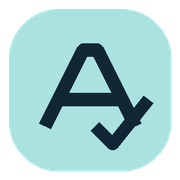
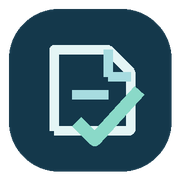
Заменить 3D на смысловую сцену документов и новый знак проверки

diff --git a/web/src/EvidenceCore.jsx b/web/src/EvidenceCore.jsx
@@ -2,122 +2,66 @@ import React,{useEffect,useRef} from 'react';
 import * as THREE from 'three';
 import {RoomEnvironment} from 'three/addons/environments/RoomEnvironment.js';
 
-// An authored physical dossier: source, rule, book and conclusion are separate layers.
-export default function EvidenceCore({progressRef,paused=false,lang='ru',framing='wide'}){
-  const host=useRef();
-  useEffect(()=>{
-    const element=host.current;
-    let renderer;
-    try{renderer=new THREE.WebGLRenderer({alpha:true,antialias:true,powerPreference:'low-power'});}catch{return;}
-    renderer.setPixelRatio(Math.min(Math.max(devicePixelRatio,2),3));
-    renderer.outputColorSpace=THREE.SRGBColorSpace;
-    renderer.toneMapping=THREE.ACESFilmicToneMapping;
-    renderer.toneMappingExposure=1.15;
-    renderer.setClearColor(0,0);element.appendChild(renderer.domElement);
-    const scene=new THREE.Scene();
-    const camera=new THREE.OrthographicCamera(-5,5,3.5,-3.5,.1,60);camera.position.set(0,0,18);
-    const pmrem=new THREE.PMREMGenerator(renderer),room=new RoomEnvironment();
-    const environment=pmrem.fromScene(room,.04);scene.environment=environment.texture;
-    room.dispose();pmrem.dispose();
-    scene.add(new THREE.HemisphereLight(0xc9e9ff,0x182638,2));
-    const key=new THREE.DirectionalLight(0xe1f4ff,3);key.position.set(-4,6,8);scene.add(key);
-    const rim=new THREE.DirectionalLight(0x7ccbdc,2);rim.position.set(5,-1,4);scene.add(rim);
-    const group=new THREE.Group();scene.add(group);
-    const geometries=[],materials=[],textures=[];
-    function mat(props){const value=new THREE.MeshStandardMaterial(props);materials.push(value);return value;}
-    function mesh(geometry,material,parent){geometries.push(geometry);const value=new THREE.Mesh(geometry,material);parent.add(value);return value;}
-    function outline(width,height,radius){
-      const s=new THREE.Shape(),x=-width/2,y=-height/2;
-      s.moveTo(x+radius,y);s.lineTo(x+width-radius,y);s.quadraticCurveTo(x+width,y,x+width,y+radius);
-      s.lineTo(x+width,y+height-radius);s.quadraticCurveTo(x+width,y+height,x+width-radius,y+height);
-      s.lineTo(x+radius,y+height);s.quadraticCurveTo(x,y+height,x,y+height-radius);
-      s.lineTo(x,y+radius);s.quadraticCurveTo(x,y,x+radius,y);return s;
-    }
-    function plate(width,height,depth,radius,material,parent){
-      const geo=new THREE.ExtrudeGeometry(outline(width,height,radius),{depth,bevelEnabled:true,bevelSegments:4,steps:1,bevelSize:.025,bevelThickness:.025,curveSegments:12});
-      geo.translate(0,0,-depth/2);return mesh(geo,material,parent);
-    }
-    const metal=mat({color:0x8ca4b8,metalness:1,roughness:.26});
-    const graphite=mat({color:0x1b2e3e,metalness:.75,roughness:.3});
-    const inset=mat({color:0x07121c,metalness:.5,roughness:.26});
-    const accent=mat({color:0x9ed8d9,emissive:0x2b6f79,emissiveIntensity:.35,metalness:.6,roughness:.25});
-    const labels=lang==='kk'?['ТӨЛЕМ','ВАЛЮТА БАҒАМЫ','ӨТКІЗБЕ','ДӘЛЕЛ']:lang==='en'?['PAYMENT','EXCHANGE RATE','JOURNAL','EVIDENCE']:['ПЛАТЁЖ','ВАЛЮТНЫЙ КУРС','ПРОВОДКА','ДОКАЗАТЕЛЬСТВО'];
-    const amounts=['500.00','490.60','250 000','4 700'];
-    const currencies=['USD','KZT / USD','KZT','KZT'];
-    const subs=lang==='kk'?['Бастапқы құжат','Ресми ереже','Кітаптағы сома','Дәлелденген айырма']:lang==='en'?['Source document','Declared conversion rule','Recorded book amount','Verified difference']:['Исходный документ','Правило конвертации','Сумма в учётной книге','Доказанное расхождение'];
-    function texture(index){
-      const canvas=document.createElement('canvas');canvas.width=1800;canvas.height=2560;
-      const c=canvas.getContext('2d');c.scale(2,2);c.fillStyle=index===3?'#17373f':'#11202d';c.fillRect(0,0,900,1280);
-      const glow=c.createLinearGradient(0,0,900,1280);glow.addColorStop(0,'#ffffff09');glow.addColorStop(1,'#00000018');c.fillStyle=glow;c.fillRect(0,0,900,1280);
-      c.strokeStyle='#67879b55';c.lineWidth=2;c.strokeRect(40,40,820,1200);
-      c.fillStyle='#9bb9cb';c.font='500 24px sans-serif';c.fillText('AUDITFORGE',78,103);
-      c.font='22px monospace';c.textAlign='right';c.fillText('0'+(index+1)+' / 04',819,103);c.textAlign='left';
-      c.strokeStyle='#7898ac66';c.beginPath();c.moveTo(78,143);c.lineTo(822,143);c.stroke();
-      c.fillStyle='#d0e7ef';c.font='500 '+(index===3?34:38)+'px sans-serif';c.fillText(labels[index],78,230);
-      c.fillStyle='#a6c3d1';c.font='25px sans-serif';c.fillText(subs[index],78,278);
-      c.fillStyle=index===3?'#c6f4e3':'#f0f7fc';c.font='500 108px sans-serif';c.fillText(amounts[index],74,455);
-      c.fillStyle='#a7cad9';c.font='30px monospace';c.fillText(currencies[index],78,513);
-      c.strokeStyle='#9fc1d34d';c.beginPath();c.moveTo(78,560);c.lineTo(822,560);c.stroke();
-      const rowLabels=index===0?['PAYMENT ID','REPORT PERIOD','SOURCE AMOUNT','CURRENCY']:index===1?['CURRENCY PAIR','DECLARED RATE','CONVERTED AMOUNT','PRECISION']:index===2?['ACCOUNT','BOOK AMOUNT','EXPECTED','DIFFERENCE']:['PAYMENT','EXCHANGE RATE','JOURNAL ENTRY','RESULT'];
-      const values=[['PAY-0042','2026 / 10','500.00','USD'],['USD → KZT','490.60','245 300 KZT','DECIMAL'],['PAYABLE','250 000 KZT','245 300 KZT','4 700 KZT'],['PAY-0042','FX-USD-10','ROW-0084','VERIFIED']][index];
-      for(let i=0;i<4;i++){
-        const y=635+i*103;c.fillStyle='#88a7b9';c.font='21px monospace';c.fillText(rowLabels[i],78,y);
-        c.fillStyle='#d1e3ed';c.font='26px monospace';c.textAlign='right';c.fillText(values[i],820,y);c.textAlign='left';
-        c.strokeStyle='#63839a33';c.beginPath();c.moveTo(78,y+36);c.lineTo(822,y+36);c.stroke();
-      }
-      c.fillStyle='#8dc0c5';for(let i=0;i<66;i++){const w=i%3===0?4:2;c.fillRect(78+i*6,1092,w,49+(i%4)*5);}
-      c.font='21px monospace';c.fillStyle='#90afc0';c.fillText('SYNTHETIC / DEMONSTRATION',78,1200);
-      if(index===3){c.strokeStyle='#b7ead9';c.lineWidth=5;c.beginPath();c.arc(765,1118,38,0,Math.PI*2);c.stroke();c.beginPath();c.moveTo(745,1119);c.lineTo(760,1133);c.lineTo(787,1103);c.stroke();}
-      const tex=new THREE.CanvasTexture(canvas);tex.colorSpace=THREE.SRGBColorSpace;tex.anisotropy=renderer.capabilities.getMaxAnisotropy();textures.push(tex);return tex;
-    }
-    const layers=[];
-    for(let i=0;i<4;i++){
-      const layer=new THREE.Group();group.add(layer);layers.push(layer);
-      plate(2.68,3.8,.11,.15,metal,layer);
-      const shell=plate(2.6,3.72,.085,.13,graphite,layer);shell.position.z=.065;
-      const gasket=plate(2.46,3.55,.018,.1,inset,layer);gasket.position.z=.122;
-      const face=mesh(new THREE.ShapeGeometry(outline(2.36,3.43,.08)),mat({map:texture(i),roughness:.37,metalness:.15}),layer);
-      // ShapeGeometry UVs use world coordinates; map the full authored face into 0..1.
-      const uv=face.geometry.getAttribute('uv'),pos=face.geometry.getAttribute('position');
-      for(let v=0;v<uv.count;v++)uv.setXY(v,(pos.getX(v)+1.18)/2.36,(pos.getY(v)+1.715)/3.43);uv.needsUpdate=true;
-      face.position.z=.18;
-      for(const x of [-1.23,1.23])for(const y of [-1.77,1.77]){
-        const screw=mesh(new THREE.CylinderGeometry(.035,.035,.018,20),metal,layer);screw.rotation.x=Math.PI/2;screw.position.set(x,y,.132);
-        const slot=mesh(new THREE.BoxGeometry(.037,.006,.003),inset,layer);slot.position.set(x,y,.144);slot.rotation.z=.65;
-      }
-      for(let j=0;j<15;j++){const vent=mesh(new THREE.BoxGeometry(.035,.14,.018),inset,layer);vent.position.set(-.73+j*.105,-1.882,.02);}
-      const rail=plate(.032,2.7,.022,.015,accent,layer);rail.position.set(-1.325,.05,.035);
-      for(let j=0;j<5;j++){const contact=mesh(new THREE.BoxGeometry(.1,.02,.09),metal,layer);contact.position.set(-.4+j*.2,-1.92,-.015);}
-    }
-    let sized=false,visible=true,frame=0,targetX=0,targetY=0,poseX=0,poseY=0,lastP=-1,lastTime=performance.now();
-    const reduced=matchMedia('(prefers-reduced-motion: reduce)').matches;
-    function move(e){const b=element.getBoundingClientRect();targetX=(e.clientX-b.left)/b.width-.5;targetY=(e.clientY-b.top)/b.height-.5;}
-    element.parentElement.addEventListener('pointermove',move);
-    const resize=new ResizeObserver(()=>{const b=element.getBoundingClientRect();sized=b.width>0&&b.height>0;if(!sized)return;renderer.setSize(b.width,b.height);const halfW=framing==='portrait'?3.3:4.95,halfH=halfW*b.height/Math.max(1,b.width);camera.left=-halfW;camera.right=halfW;camera.top=halfH;camera.bottom=-halfH;camera.updateProjectionMatrix();lastP=-1;});resize.observe(element);
-    const visibility=new IntersectionObserver(([entry])=>{visible=entry.isIntersecting;});visibility.observe(element);
-    const bounds=new THREE.Box3(),size=new THREE.Vector3(),center=new THREE.Vector3();
-    function render(){
-      frame=requestAnimationFrame(render);if(!visible||!sized)return;
-      const p=Math.max(0,Math.min(1,progressRef.current));
-      const now=performance.now(),dt=Math.min((now-lastTime)/1000,.05);lastTime=now;
-      poseX=THREE.MathUtils.damp(poseX,reduced||paused?0:targetX,8,dt);
-      poseY=THREE.MathUtils.damp(poseY,reduced||paused?0:targetY,8,dt);
-      group.rotation.set(.08-poseY*.06,-.28+poseX*.09,-.055);
+// Financial source documents, never device mockups. Scroll reveals the evidence chain.
+export default function EvidenceCore({progressRef,paused=false,lang='ru',hero=false}){
+ const host=useRef();
+ useEffect(()=>{
+  const element=host.current;let renderer;
+  try{renderer=new THREE.WebGLRenderer({alpha:true,antialias:true,powerPreference:'low-power'});}catch{return;}
+  renderer.setPixelRatio(Math.min(devicePixelRatio||1,2));renderer.outputColorSpace=THREE.SRGBColorSpace;
+  renderer.toneMapping=THREE.ACESFilmicToneMapping;renderer.toneMappingExposure=1.15;renderer.setClearColor(0,0);element.appendChild(renderer.domElement);
+  const scene=new THREE.Scene(),camera=new THREE.OrthographicCamera(-5,5,4,-4,.1,60);camera.position.z=18;
+  const pmrem=new THREE.PMREMGenerator(renderer),room=new RoomEnvironment(),environment=pmrem.fromScene(room,.04);scene.environment=environment.texture;room.dispose();pmrem.dispose();
+  scene.add(new THREE.HemisphereLight(0xe5f3ff,0x476078,2.6));const light=new THREE.DirectionalLight(0xffffff,3);light.position.set(-3,5,8);scene.add(light);
+  const group=new THREE.Group();scene.add(group);const geometry=[],materials=[],textures=[],sheets=[];
+  const titles={ru:['Платёж','Валютный курс','Проводка','Доказательство'],en:['Payment','Exchange rate','Journal entry','Evidence'],kk:['Төлем','Валюта бағамы','Өткізбе','Дәлел']}[lang]||['Payment','Exchange rate','Journal entry','Evidence'];
+  const subtitles={ru:['Исходный документ','Правило на дату платежа','Запись в учётной книге','Проверенное расхождение'],en:['Source document','Rule on payment date','Recorded book amount','Verified difference'],kk:['Бастапқы құжат','Төлем күніндегі ереже','Есеп кітабындағы жазба','Расталған айырма']}[lang]||[];
+  const values=['500.00','490.60','250 000','4 700'],units=['USD','KZT / USD','KZT','KZT'];
+  function material(options){const m=new THREE.MeshStandardMaterial(options);materials.push(m);return m;}
+  function mesh(g,m,parent){geometry.push(g);const o=new THREE.Mesh(g,m);parent.add(o);return o;}
+  function shape(w,h,r){const s=new THREE.Shape(),x=-w/2,y=-h/2;s.moveTo(x+r,y);s.lineTo(x+w-r,y);s.quadraticCurveTo(x+w,y,x+w,y+r);s.lineTo(x+w,y+h-r);s.quadraticCurveTo(x+w,y+h,x+w-r,y+h);s.lineTo(x+r,y+h);s.quadraticCurveTo(x,y+h,x,y+h-r);s.lineTo(x,y+r);s.quadraticCurveTo(x,y,x+r,y);return s;}
+  function faceTexture(index){
+   const canvas=document.createElement('canvas');canvas.width=1536;canvas.height=2048;const c=canvas.getContext('2d');c.scale(2,2);
+   c.fillStyle=index===3?'#e2f4ef':'#fafcfd';c.fillRect(0,0,768,1024);
+   c.fillStyle='#60788b';c.font='500 18px sans-serif';c.fillText('AUDITFORGE',58,76);c.textAlign='right';c.fillText(String(index+1).padStart(2,'0'),710,76);c.textAlign='left';
+   c.strokeStyle='#ccd8e0';c.lineWidth=1;c.beginPath();c.moveTo(58,108);c.lineTo(710,108);c.stroke();
+   c.fillStyle='#162e40';c.font='600 42px sans-serif';c.fillText(titles[index],58,196);c.font='22px sans-serif';c.fillStyle='#657f90';c.fillText(subtitles[index]||'',58,239);
+   c.fillStyle='#163548';c.font='500 89px sans-serif';c.fillText(values[index],54,395);c.font='24px sans-serif';c.fillStyle='#637d8b';c.fillText(units[index],58,438);
+   const labels=index===0?['PAY-0042','31 OCT 2026','USD → KZT']:index===1?['FX-USD-10','500 × 490.60','245 300 KZT']:index===2?['ROW-0084','245 300 KZT','250 000 KZT']:['PAY-0042 + FX-USD-10','ROW-0084','250 000 − 245 300'];
+   labels.forEach((value,i)=>{const y=555+i*99;c.fillStyle='#edf2f5';c.fillRect(56,y-28,656,62);c.fillStyle='#476578';c.font='24px sans-serif';c.fillText(value,76,y+12);});
+   if(index===3){c.strokeStyle='#397b6f';c.lineWidth=7;c.beginPath();c.arc(644,897,36,0,Math.PI*2);c.stroke();c.beginPath();c.moveTo(626,896);c.lineTo(641,911);c.lineTo(664,882);c.stroke();}
+   c.fillStyle='#7e949f';c.font='18px sans-serif';c.fillText('SYNTHETIC · DEMONSTRATION',58,948);
+   const t=new THREE.CanvasTexture(canvas);t.colorSpace=THREE.SRGBColorSpace;t.anisotropy=Math.min(8,renderer.capabilities.getMaxAnisotropy());textures.push(t);return t;
+  }
+  for(let i=0;i<(hero?1:4);i++){
+   const sheet=new THREE.Group();group.add(sheet);sheets.push(sheet);const outline=shape(2.8,3.75,.075);
+   const thickness=new THREE.ExtrudeGeometry(outline,{depth:.025,bevelEnabled:true,bevelSegments:2,bevelSize:.008,bevelThickness:.008,curveSegments:16});thickness.translate(0,0,-.025);
+   mesh(thickness,material({color:0xe5edf2,roughness:.8}),sheet);
+   const front=mesh(new THREE.ShapeGeometry(outline),(()=>{const m=new THREE.MeshBasicMaterial({map:faceTexture(hero?0:i)});materials.push(m);return m;})(),sheet);front.position.z=.012;
+   const uv=front.geometry.getAttribute('uv'),pos=front.geometry.getAttribute('position');for(let n=0;n<uv.count;n++)uv.setXY(n,(pos.getX(n)+1.4)/2.8,(pos.getY(n)+1.875)/3.75);uv.needsUpdate=true;
+  }
+  // A thin optical plane highlights a document row; it is a visual explanation of inspection.
+  let inspection;
+  if(hero){inspection=new THREE.Group();group.add(inspection);const glass=new THREE.MeshPhysicalMaterial({color:0xb9e4e9,transparent:true,opacity:.25,roughness:.12,metalness:0,side:THREE.DoubleSide});materials.push(glass);
+   mesh(new THREE.CircleGeometry(.93,96),glass,inspection);
+   const rimMaterial=material({color:0x527b8e,metalness:.75,roughness:.2});
+   mesh(new THREE.TorusGeometry(.96,.045,20,96),rimMaterial,inspection);
+   const outer=mesh(new THREE.TorusGeometry(1.045,.012,12,96),rimMaterial,inspection);outer.position.z=-.02;
 
-      layers.forEach((layer,i)=>{
-        const order=i-1.5;
-        // Keep the source in front throughout. Depth never crosses zero or reverses order.
-        layer.position.set(order*(.14+p*1.64),-order*p*.15,-order*(.22+p*.22));
-        layer.rotation.y=-.035+order*p*.035;
-        layer.rotation.z=order*p*-.025;
-        layer.scale.setScalar(1);
-      });
-      group.updateMatrixWorld(true);bounds.setFromObject(group);bounds.getSize(size);bounds.getCenter(center);const availableWidth=camera.right-camera.left,availableHeight=camera.top-camera.bottom;camera.zoom=Math.min(availableWidth/(size.x*1.22),availableHeight/(size.y*1.22));camera.position.set(center.x,center.y,18);camera.lookAt(center.x,center.y,0);camera.updateProjectionMatrix();
-      if(!paused||lastP!==p){renderer.render(scene,camera);element.dataset.ready='true';lastP=p;}
-    }
-    render();
-    return()=>{cancelAnimationFrame(frame);resize.disconnect();visibility.disconnect();element.parentElement?.removeEventListener('pointermove',move);geometries.forEach(g=>g.dispose());materials.forEach(m=>m.dispose());textures.forEach(t=>t.dispose());environment.dispose();renderer.dispose();renderer.domElement.remove();};
-  },[progressRef,paused,lang,framing]);
-  const label=lang==='kk'?'Төлем, бағам, өткізбелер және дәлел қабаттары бар үш өлшемді досье':lang==='en'?'Exploded evidence dossier with payment, exchange rate, journal and verified finding layers':'Объёмное досье: платёж, валютный курс, проводка и доказанный вывод';
-  return <div className="scanner evidence-core" ref={host} role="img" aria-label={label}/>;
+  }
+  let visible=true,sized=false,frame=0,targetX=0,targetY=0,poseX=0,poseY=0,lastTime=performance.now();const reduced=matchMedia('(prefers-reduced-motion: reduce)').matches;
+  const bounds=new THREE.Box3(),size=new THREE.Vector3(),center=new THREE.Vector3();
+  const resize=new ResizeObserver(()=>{const b=element.getBoundingClientRect();sized=b.width>0&&b.height>0;if(!sized)return;renderer.setSize(b.width,b.height);camera.left=-5;camera.right=5;camera.top=5*b.height/b.width;camera.bottom=-camera.top;camera.updateProjectionMatrix();});resize.observe(element);
+  const observer=new IntersectionObserver(([entry])=>visible=entry.isIntersecting);observer.observe(element);
+  function move(e){const b=element.getBoundingClientRect();targetX=(e.clientX-b.left)/b.width-.5;targetY=(e.clientY-b.top)/b.height-.5;}function leave(){targetX=targetY=0;}
+  element.addEventListener('pointermove',move);element.addEventListener('pointerleave',leave);
+  function render(){frame=requestAnimationFrame(render);if(!visible||!sized)return;const now=performance.now(),dt=Math.min((now-lastTime)/1000,.05);lastTime=now;const p=Math.max(0,Math.min(1,progressRef?.current||0));
+   poseX=THREE.MathUtils.damp(poseX,reduced||paused?0:targetX,7,dt);poseY=THREE.MathUtils.damp(poseY,reduced||paused?0:targetY,7,dt);group.rotation.set(.06-poseY*.09,-.16+poseX*.13,-.055);
+   sheets.forEach((sheet,i)=>{const order=i-1.5;sheet.position.set(hero?0:order*(.14+p*1.7),hero?0:-order*p*.15,hero?0:-i*(.12+p*.21));sheet.rotation.z=hero?0:order*p*-.025;});
+   if(inspection){inspection.position.set(.36+poseX*.35,.28+poseY*.9,.42);inspection.rotation.y=.02;}
+   group.updateMatrixWorld(true);bounds.setFromObject(group);bounds.getSize(size);bounds.getCenter(center);camera.zoom=Math.min((camera.right-camera.left)/(size.x*1.28),(camera.top-camera.bottom)/(size.y*1.28));camera.position.set(center.x,center.y,18);camera.lookAt(center.x,center.y,0);camera.updateProjectionMatrix();renderer.render(scene,camera);element.dataset.ready='true';element.dataset.scene=hero?'document-inspection':'financial-evidence';
+  }render();
+  return()=>{cancelAnimationFrame(frame);resize.disconnect();observer.disconnect();element.removeEventListener('pointermove',move);element.removeEventListener('pointerleave',leave);geometry.forEach(g=>g.dispose());materials.forEach(m=>m.dispose());textures.forEach(t=>t.dispose());environment.dispose();renderer.dispose();renderer.domElement.remove();};
+ },[hero,lang,paused,progressRef]);
+ return <div className={'scanner evidence-core'+(hero?' document-inspection':'')} ref={host} role="img" aria-label={hero?(lang==='ru'?'Проверка строки платёжного документа':'Payment document inspection'):(lang==='ru'?'Связанные документы: платёж, курс, проводка и доказательство':'Connected financial evidence documents')}/>;
 }

diff --git a/web/src/Scanner.jsx b/web/src/Scanner.jsx
@@ -1,95 +1,3 @@
-import React,{useEffect,useRef} from 'react';
-import * as THREE from 'three';
-
-export default function Scanner({paused=false,dark=false,progressRef=null,exploded=false}){
-  const host=useRef();
-  useEffect(()=>{
-    const element=host.current;
-    let renderer;
-    try{renderer=new THREE.WebGLRenderer({alpha:true,antialias:true,powerPreference:'low-power'});}catch{return;}
-    renderer.setPixelRatio(Math.min(Math.max(devicePixelRatio,2),3));
-    renderer.outputColorSpace=THREE.SRGBColorSpace;
-    renderer.setClearColor(0,0);
-    element.appendChild(renderer.domElement);
-    const scene=new THREE.Scene();
-    const camera=new THREE.PerspectiveCamera(31,1,.1,100);camera.position.set(0,.2,exploded?12.3:10.8);
-    scene.add(new THREE.HemisphereLight(0xffffff,0x66717d,3.5));
-    const key=new THREE.DirectionalLight(0xffffff,5);key.position.set(-3,5,6);scene.add(key);
-    const rim=new THREE.DirectionalLight(0x8cbfd3,4);rim.position.set(4,-1,3);scene.add(rim);
-    const group=new THREE.Group();scene.add(group);group.rotation.set(-.15,exploded?-.65:-.35,-.13);
-    const textures=[];const geometries=[];const materials=[];
-    function material(props){const m=new THREE.MeshStandardMaterial(props);materials.push(m);return m;}
-    function mesh(geometry,m,parent=group){geometries.push(geometry);const o=new THREE.Mesh(geometry,m);parent.add(o);return o;}
-    const paper=material({color:0xfafafa,roughness:.5,metalness:.04});
-    const edge=material({color:0xcbd0d4,roughness:.35,metalness:.5});
-    const ink=material({color:0x111a24,roughness:.2,metalness:.8});
-    const metal=material({color:0x9ba9b6,roughness:.2,metalness:.9});
-    const lightMetal=material({color:0xe8edf2,roughness:.16,metalness:.85});
-    const pages=[];
-    for(let i=3;i>=0;i--){const page=mesh(new THREE.BoxGeometry(3.15,4.05,.045),i===0?paper:edge);page.position.set((i-1.5)*.1,-.13*i,-.07*i);page.rotation.z=(i-1.5)*.04;pages.push(page);}
-    const canvas=document.createElement('canvas');canvas.width=768;canvas.height=1024;
-    const c=canvas.getContext('2d');c.fillStyle='#fafafa';c.fillRect(0,0,768,1024);
-    c.fillStyle='#17212e';c.font='600 36px sans-serif';c.fillText('AUDITFORGE',65,100);
-    c.font='18px sans-serif';c.fillStyle='#697581';c.fillText('SYNTHETIC COMPANY / OCT 2026',65,145);
-    c.fillStyle='#16212e';c.font='bold 50px sans-serif';c.fillText('Evidence.',65,250);
-    c.fillStyle='#b5bdc7';c.fillRect(65,285,638,2);
-    for(let i=0;i<9;i++){c.fillStyle=i===4?'#d6e8ed':'#e9edf1';c.fillRect(65,340+i*51,638,38);c.fillStyle=i===4?'#356779':'#8d9aa7';c.fillRect(80,353+i*51,100,8);c.fillRect(230,353+i*51,190+(i%3)*20,8);c.fillRect(553,353+i*51,128,8);}
-    c.fillStyle='#8c9aa7';c.font='16px sans-serif';c.fillText('INVOICE / PAYMENT / JOURNAL',65,930);
-    const texture=new THREE.CanvasTexture(canvas);texture.colorSpace=THREE.SRGBColorSpace;texture.anisotropy=4;textures.push(texture);
-    const face=material({map:texture,roughness:.8});const doc=mesh(new THREE.PlaneGeometry(3.15,4.05),face);doc.position.set(-.15,0,.026);doc.rotation.z=-.06;
-    const lens=new THREE.Group();group.add(lens);lens.position.set(.5,.32,1.15);
-    const ring=mesh(new THREE.TorusGeometry(1.12,.16,32,100),metal,lens);
-    const outer=mesh(new THREE.TorusGeometry(1.29,.045,24,100),lightMetal,lens);outer.position.z=-.06;
-    const inner=mesh(new THREE.TorusGeometry(.96,.07,24,100),ink,lens);inner.position.z=.02;
-    const glass=new THREE.MeshPhysicalMaterial({color:0xadd8df,metalness:.1,roughness:.06,transparent:true,opacity:.22,side:THREE.DoubleSide,clearcoat:1});materials.push(glass);
-    const disc=mesh(new THREE.CircleGeometry(.96,80),glass,lens);disc.position.z=.03;
-    const beam=new THREE.MeshBasicMaterial({color:0x61a3b6,transparent:true,opacity:.1,side:THREE.DoubleSide});materials.push(beam);
-    const shaft=mesh(new THREE.CylinderGeometry(.94,1.05,1.05,64,1,true),beam,lens);shaft.rotation.x=Math.PI/2;shaft.position.z=-.52;
-    const handle=mesh(new THREE.CylinderGeometry(.13,.18,1.42,32),ink,lens);handle.rotation.z=.7;handle.position.set(1.27,-1.34,0);
-    const end=mesh(new THREE.CylinderGeometry(.18,.18,.14,32),metal,lens);end.rotation.z=.7;end.position.set(1.73,-1.9,0);
-    const scan=mesh(new THREE.PlaneGeometry(1.72,.018),new THREE.MeshBasicMaterial({color:0x27a7b5,transparent:true,opacity:.8}),lens);materials.push(scan.material);scan.position.z=.06;
-    const sensorMaterial=material({color:0x173d4c,metalness:.65,roughness:.25});
-    const sensor=mesh(new THREE.BoxGeometry(1.65,1.65,.055),sensorMaterial,lens);sensor.position.z=-.15;
-    for(let i=0;i<7;i++){const trace=mesh(new THREE.BoxGeometry(1.3,.012,.01),lightMetal,sensor);trace.position.set(0,-.55+i*.18,.035);}
-    const chip=mesh(new THREE.BoxGeometry(.53,.53,.08),ink,sensor);chip.position.z=.05;
-    if(!exploded)sensor.visible=false;
-    const lensParts=[outer,ring,inner,disc,sensor];
-    const bases=lensParts.map(o=>o.position.clone());
-    const pageBases=pages.map(o=>o.position.clone());
-    let target={x:0,y:0},visible=true,frame=0;
-    const reduced=matchMedia('(prefers-reduced-motion: reduce)').matches;
-    function move(event){const box=element.getBoundingClientRect();target.x=((event.clientX-box.left)/box.width-.5)*.45;target.y=((event.clientY-box.top)/box.height-.5)*.35;}
-    element.parentElement.addEventListener('pointermove',move);
-    const resize=new ResizeObserver(()=>{const {width,height}=element.getBoundingClientRect();renderer.setSize(width,height);camera.aspect=width/height;camera.updateProjectionMatrix();group.scale.setScalar(width<500?.85:1);});resize.observe(element);
-    const observer=new IntersectionObserver(([entry])=>visible=entry.isIntersecting);observer.observe(element);
-    const bounds=new THREE.Box3(),sphere=new THREE.Sphere();
-    const start=performance.now();
-    function render(){
-      frame=requestAnimationFrame(render);if(!visible)return;
-      const t=(performance.now()-start)/1000;
-      const p=Math.max(0,Math.min(1,progressRef?.current||0));
-      if(exploded){
-        group.rotation.y=-.4-p*.4+(reduced?0:target.x*.16);
-        group.rotation.x=-.12+(reduced?0:-target.y*.15);
-        group.rotation.z=-.1+p*.12;
-        lens.position.set(.2+p*.2,.24+p*.25,.7+p*.45);
-        lensParts.forEach((o,i)=>{o.position.copy(bases[i]);o.position.z+=(i-2)*p*1.75;o.position.x-=(i-2)*p*.1;});
-        pages.forEach((o,i)=>{o.position.copy(pageBases[i]);o.position.z-=p*(.4+i*.24);o.position.x-=p*(.12+i*.13);});
-        doc.position.z=.026-p*.32;
-        handle.position.set(1.27+p*.1,-1.34,-p*1.75);
-        end.position.set(1.73+p*.1,-1.9,-p*1.75);
-        shaft.material.opacity=.1*(1-p);
-        scan.position.y=.65-p*1.3;scan.position.z=.06+p*1.05;
-      }else if(!paused&&!reduced){
-        group.rotation.y+=(target.x-.28-group.rotation.y)*.045;
-        group.rotation.x+=(-target.y-.12-group.rotation.x)*.045;
-        scan.position.y=Math.sin(t*1.15)*.65;
-      }
-      group.updateMatrixWorld(true);bounds.setFromObject(group);bounds.getBoundingSphere(sphere);const limitingFov=Math.min(camera.fov*Math.PI/180,2*Math.atan(Math.tan(camera.fov*Math.PI/360)*camera.aspect));const distance=sphere.radius/Math.sin(limitingFov/2)*1.12;camera.position.set(sphere.center.x,sphere.center.y,distance+sphere.center.z);camera.lookAt(sphere.center);
-      renderer.render(scene,camera);element.dataset.ready='true';
-    }
-    render();
-    return()=>{cancelAnimationFrame(frame);resize.disconnect();observer.disconnect();element.parentElement?.removeEventListener('pointermove',move);textures.forEach(t=>t.dispose());geometries.forEach(g=>g.dispose());materials.forEach(m=>m.dispose());renderer.dispose();renderer.domElement.remove();};
-  },[paused,dark,exploded,progressRef]);
-  return <div className={'scanner'+(exploded?' scanner-exploded':'')} ref={host} role="img" aria-label={exploded?'Interactive exploded audit scanner showing source, reconciliation, FX and evidence layers':'3D evidence scanner linking financial documents'}/>;
-}
+import React from 'react';
+import EvidenceCore from './EvidenceCore.jsx';
+export default function Scanner({paused=false,lang='ru'}){return <EvidenceCore hero paused={paused} lang={lang}/>;}

diff --git a/web/src/App.jsx b/web/src/App.jsx
@@ -40,7 +40,7 @@ function Landing({t,lang,setLang,onEnter}){
   return <main ref={scope} className="landing" data-paused={paused}>
     <header className="site-header"><div className="nav-inner"><Brand onClick={()=>window.scrollTo({top:0,behavior:'smooth'})}/><nav aria-label={t('overview')}><a href="#capabilities">{t('capabilities')}</a><a href="#workflow">{t('workflow')}</a></nav><div className="nav-actions"><Language lang={lang} setLang={setLang}/><button className="button small primary" onClick={onEnter}>{t('enter')}</button></div></div></header>
     <section className="hero">
-      <div className="hero-model"><Suspense fallback={<div className="model-loading"/>}><Scanner paused={paused}/></Suspense></div>
+      <div className="hero-model"><Suspense fallback={<div className="model-loading"/>}><Scanner paused={paused} lang={lang}/></Suspense></div>
       <div className="hero-copy"><h1 className="max-w-6xl">{t('heroA')}<br/><span>{t('heroB')}</span></h1><p className="hero-sub">{t('heroSub')}</p><p className="hero-description">{t('heroBody')}</p><div className="hero-ctas"><button className="button primary" onClick={onEnter}>{t('start')}</button><a className="text-link" href="#capabilities">{t('explore')}<span className="link-plus">+</span></a></div></div>
       <div className="hero-bottom"><span className="model-hint"><ScanLine size={17}/>{t('modelHint')}</span><button className="motion-control" onClick={()=>setPaused(!paused)} aria-label={t(paused?'play':'pause')}>{paused?<Play size={15}/>:<Pause size={15}/>}</button></div>
     </section>

diff --git a/web/index.html b/web/index.html
@@ -1,2 +1,2 @@
 <!doctype html>
-<html lang="ru"><head><meta charset="UTF-8"><meta name="viewport" content="width=device-width, initial-scale=1.0"><meta name="theme-color" content="#f5f5f7"><meta name="description" content="AuditForge — воспроизводимая среда для исследования финансового аудита. Синтетические компании, доказательства и прозрачная оценка."><link rel="icon" type="image/svg+xml" href="/favicon.svg?v=2"><link rel="alternate icon" href="/favicon.ico?v=2"><link rel="apple-touch-icon" href="/apple-touch-icon.png"><title>AuditForge — Evidence, not intuition.</title></head><body><div id="root"></div><script type="module" src="/src/main.jsx"></script></body></html>
+<html lang="ru"><head><meta charset="UTF-8"><meta name="viewport" content="width=device-width, initial-scale=1.0"><meta name="theme-color" content="#f5f5f7"><meta name="description" content="AuditForge — воспроизводимая среда для исследования финансового аудита. Синтетические компании, доказательства и прозрачная оценка."><link rel="icon" type="image/svg+xml" href="/favicon.svg?v=3"><link rel="alternate icon" href="/favicon.ico?v=3"><link rel="apple-touch-icon" href="/apple-touch-icon.png"><title>AuditForge — Evidence, not intuition.</title></head><body><div id="root"></div><script type="module" src="/src/main.jsx"></script></body></html>
